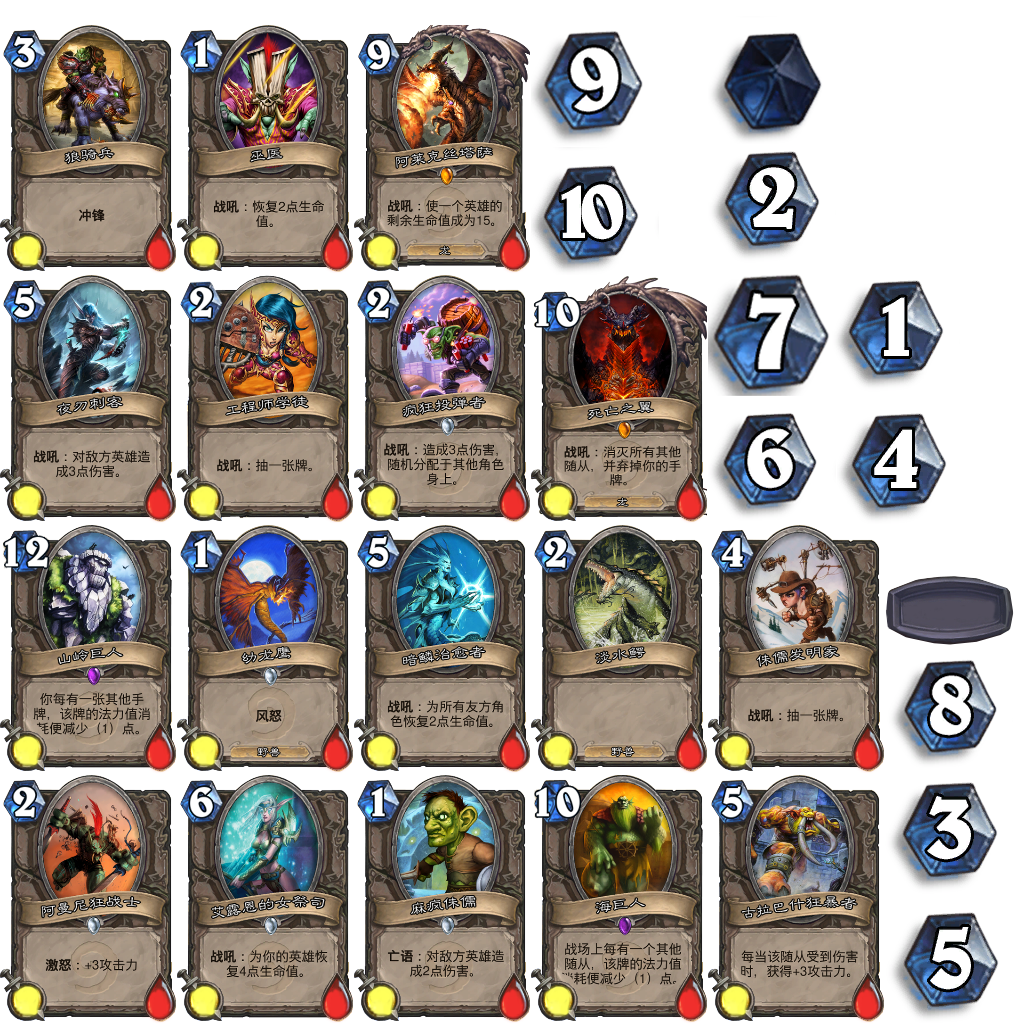
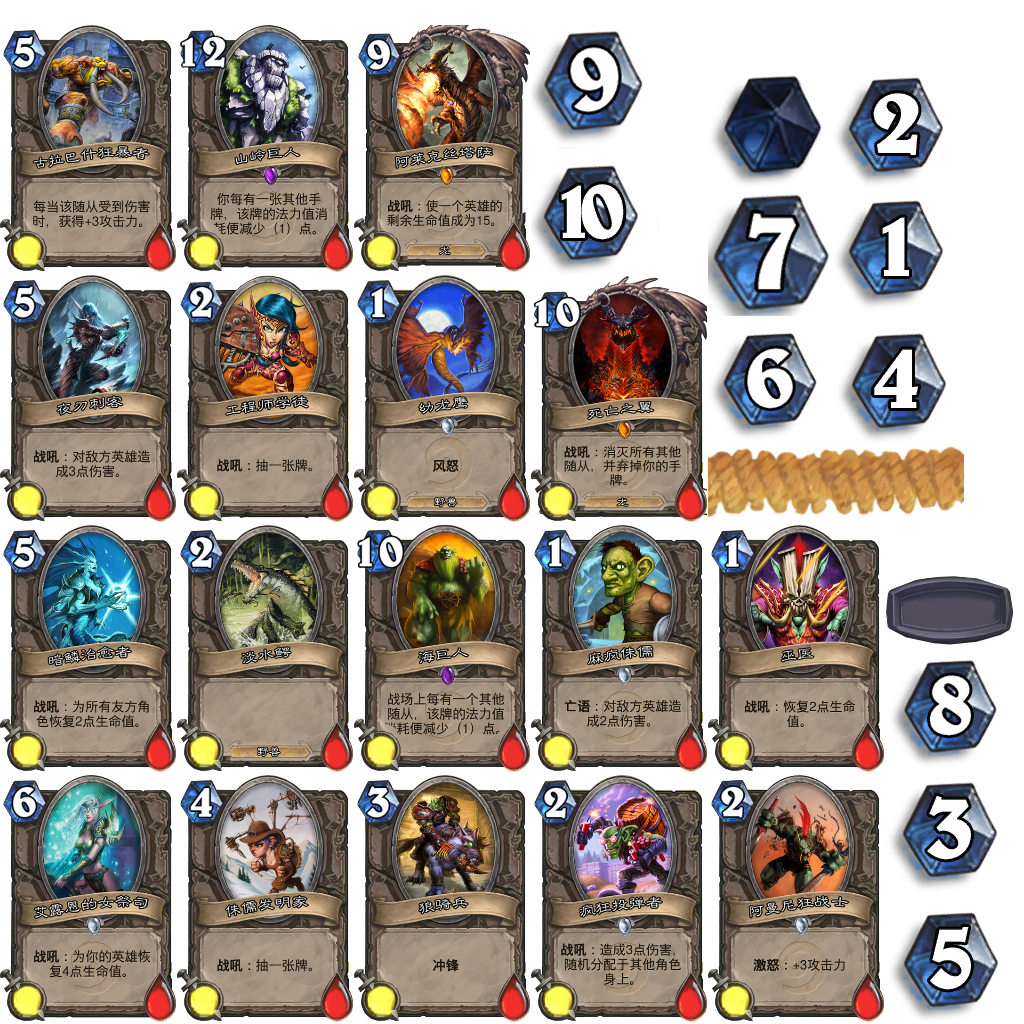
完成及时绳效果

diff --git a/HearthStone/Assets/Scripts/GameController.cs b/HearthStone/Assets/Scripts/GameController.cs
@@ -1,49 +1,47 @@
 using UnityEngine;
 using System.Collections;
 
+public enum GameState{
+	CardGenerating,		//genera card
+	PlayCard,			//play mode
+	End					//game end
+}
+
 public class GameController : MonoBehaviour {
 
-	public GameObject cardPrefab;
+	public GameState gameState = GameState.CardGenerating;
+	public float cycleTime = 60f;
 
-	public Transform fromCard;
+	private UISprite wickpopeSprite;
+	private float timer = 0f;
+	private float wickpopeLength;
 
-	public Transform toCard;
+	void Awake(){
+		wickpopeSprite = this.transform.Find ("wickpope").GetComponent<UISprite> ();
+		wickpopeLength = wickpopeSprite.width;
+		wickpopeSprite.width = 0;
+	}
 
-	public string[] cardNams;
-
-	public float transformTime = 2f;
-
-	public int transformSpeed = 20;
-
-	private bool isTransforming = false;
-
-	private float timer;
-
-	private UISprite nowGenerateCard;
-
-	void Update(){
-		if (Input.GetKeyDown (KeyCode.Space)) {
-			RandomGenerateCard();
-		}
-		if (isTransforming) {
+	// Use this for initialization
+	void Start () {
+	
+	}
+	
+	// Update is called once per frame
+	void Update () {
+		if (gameState == GameState.PlayCard) {
 			timer += Time.deltaTime;
-			int index = (int)(timer / (1f/transformSpeed));
-			index %= cardNams.Length;
-			nowGenerateCard.spriteName = cardNams[index];
-			if(timer > transformTime){
-				//transform finishied
-				isTransforming = false;
-				timer = 0;
+			if(timer > cycleTime){
+				//end this section
+				TransformPlayer();
+			}else if((cycleTime - timer) <= 15){
+				wickpopeSprite.width = (int)(((cycleTime - timer) / 15f)*wickpopeLength);
 			}
 		}
 	}
 
-	public void RandomGenerateCard(){
-		GameObject go = NGUITools.AddChild (this.gameObject, cardPrefab);
-		go.transform.position = fromCard.position;
-		nowGenerateCard = go.GetComponent<UISprite> ();
-		iTween.MoveTo (go, toCard.position, 1f);
-		isTransforming = true;
+	private void TransformPlayer(){
 
 	}
+
 }

diff --git a/HearthStone/Assets/Scripts/CardGenerator.cs b/HearthStone/Assets/Scripts/CardGenerator.cs
@@ -1,0 +1,49 @@
+using UnityEngine;
+using System.Collections;
+
+public class CardGenerator : MonoBehaviour {
+
+	public GameObject cardPrefab;
+
+	public Transform fromCard;
+
+	public Transform toCard;
+
+	public string[] cardNams;
+
+	public float transformTime = 2f;
+
+	public int transformSpeed = 20;
+
+	private bool isTransforming = false;
+
+	private float timer;
+
+	private UISprite nowGenerateCard;
+
+	void Update(){
+		if (Input.GetKeyDown (KeyCode.Space)) {
+			RandomGenerateCard();
+		}
+		if (isTransforming) {
+			timer += Time.deltaTime;
+			int index = (int)(timer / (1f/transformSpeed));
+			index %= cardNams.Length;
+			nowGenerateCard.spriteName = cardNams[index];
+			if(timer > transformTime){
+				//transform finishied
+				isTransforming = false;
+				timer = 0;
+			}
+		}
+	}
+
+	public void RandomGenerateCard(){
+		GameObject go = NGUITools.AddChild (this.gameObject, cardPrefab);
+		go.transform.position = fromCard.position;
+		nowGenerateCard = go.GetComponent<UISprite> ();
+		iTween.MoveTo (go, toCard.position, 1f);
+		isTransforming = true;
+
+	}
+}

diff --git a/HearthStone/Assets/Scripts/MyCard.cs b/HearthStone/Assets/Scripts/MyCard.cs
@@ -29,7 +29,7 @@ public class MyCard : MonoBehaviour {
 
 	public void GetCard(){
 		GameObject go = NGUITools.AddChild (this.gameObject, cardPrefab);
-
+		go.GetComponent<UISprite> ().width = 80;
 		Vector3 toPosition = card01.position + new Vector3 (xOffset * cards.Count, 0, 0);
 
 		iTween.MoveTo (go, toPosition, 1f);

diff --git a/HearthStone/Assets/Scripts/Hero1Crystal.cs b/HearthStone/Assets/Scripts/Hero1Crystal.cs
@@ -18,6 +18,10 @@ public class Hero1Crystal : MonoBehaviour {
 		label = this.GetComponent<UILabel> ();
 	}
 
+	void Update(){
+		UpdateShow ();
+	}
+
 	public void UpdateShow(){
 		label.text = string.Format ("{0}/{1}", useableNum, totalNum);
 		for (int i = totalNum; i < maxNum; ++i) {

diff --git a/HearthStone/Assets/Scripts/Hero2Crystal.cs b/HearthStone/Assets/Scripts/Hero2Crystal.cs
@@ -13,6 +13,10 @@ public class Hero2Crystal : MonoBehaviour {
 		label = this.GetComponent<UILabel> ();
 	}
 
+	void Update(){
+		UpdateShow ();
+	}
+
 	public void UpdateShow(){
 		label.text = string.Format ("{0}/{1}", useableNum, totalNum);
 	}
